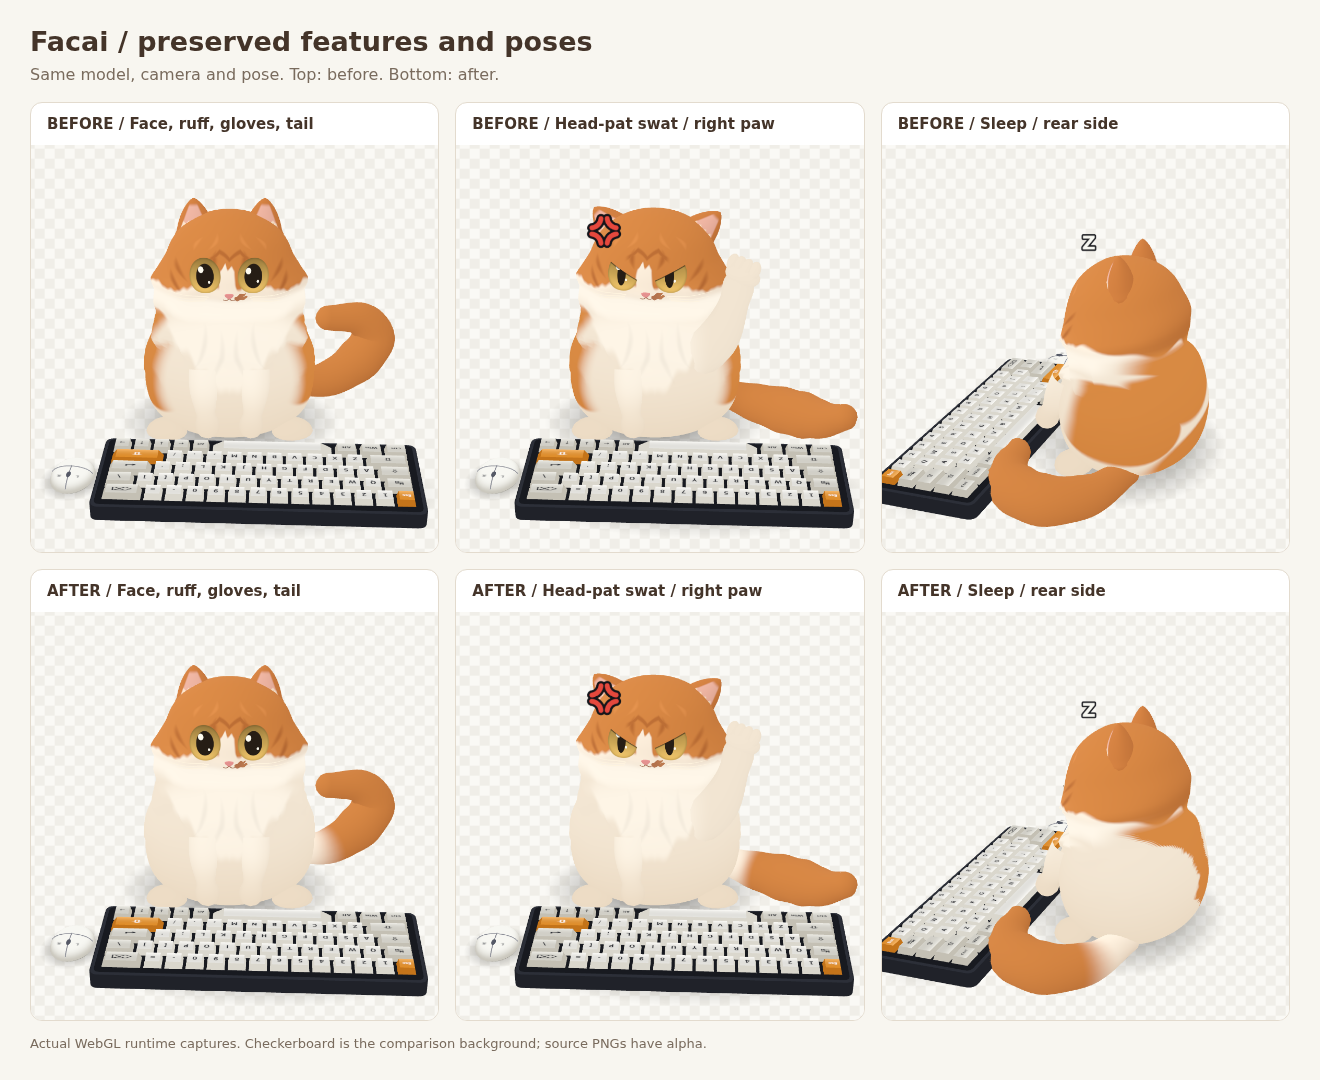
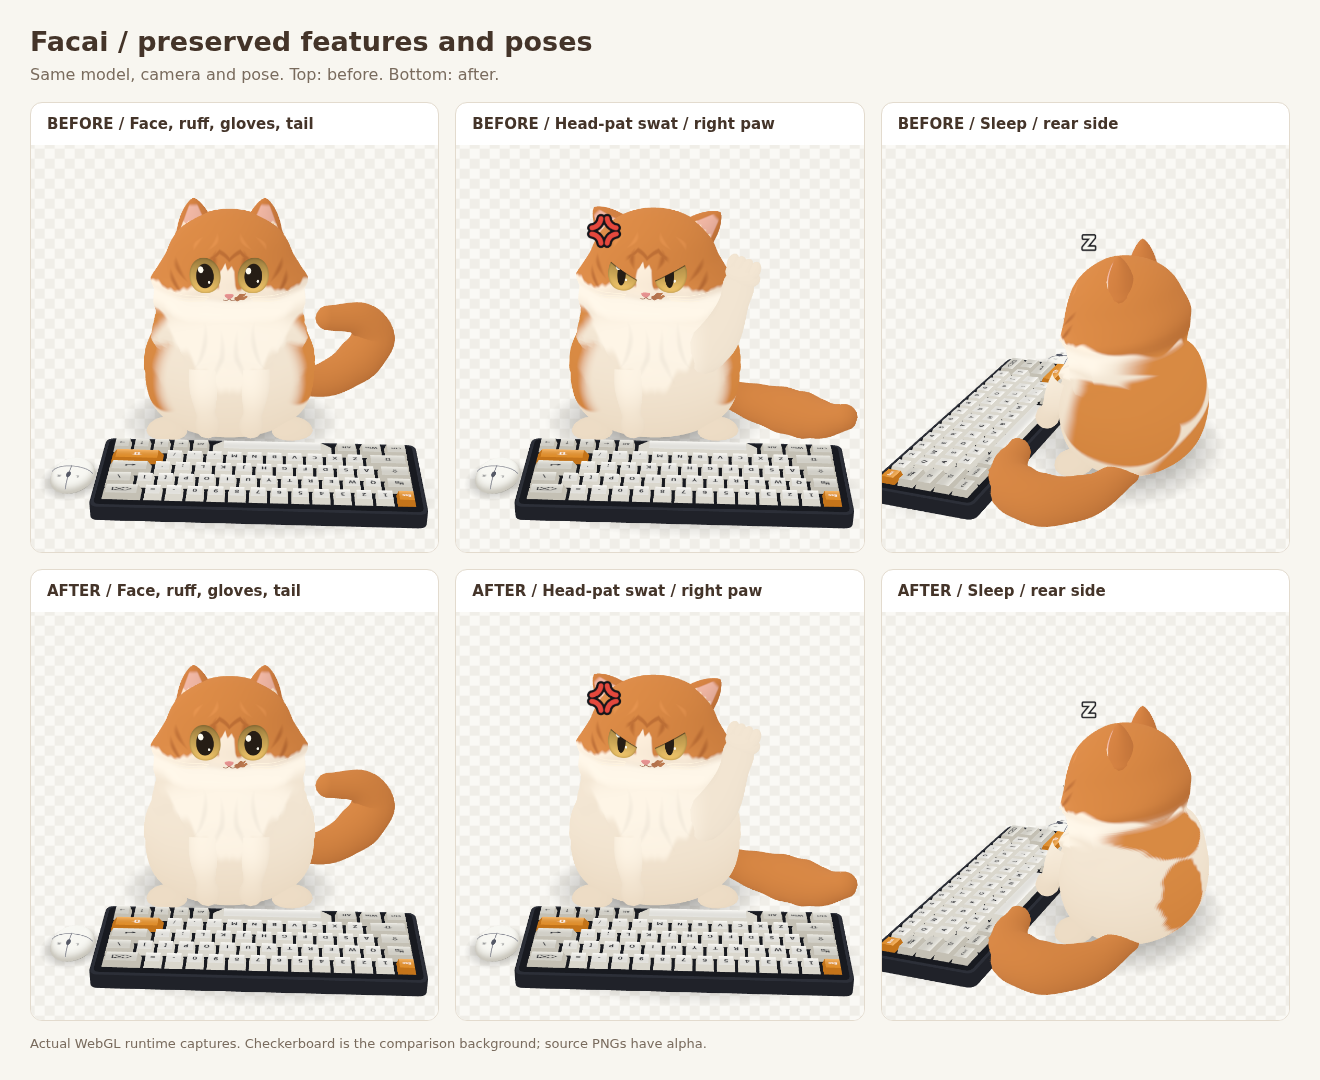
fix: match Facai's asymmetric back markings

diff --git a/src/longhair3d.ts b/src/longhair3d.ts
@@ -192,7 +192,7 @@ function makeCoatGeometry(
   return geometry;
 }
 
-function sculptMaterial(part: 'COAT' | 'EAR' | 'LIMB' | 'SOLID' | 'TAIL'): THREE.ShaderMaterial {
+function sculptMaterial(part: 'COAT' | 'EAR' | 'LIMB' | 'SOLID'): THREE.ShaderMaterial {
   return new THREE.ShaderMaterial({
     defines: { [part]: 1 },
     uniforms: {
@@ -221,10 +221,6 @@ function sculptMaterial(part: 'COAT' | 'EAR' | 'LIMB' | 'SOLID' | 'TAIL'): THREE
       #endif
       varying vec3 vLocation, vNormal, vView;
       varying vec2 vWorldXY;
-      #ifdef TAIL
-        attribute float along;
-        varying float vAlong;
-      #endif
       void main() {
         vec4 posed = vec4(position, 1.0);
         vec3 posedNormal = normal;
@@ -240,9 +236,6 @@ function sculptMaterial(part: 'COAT' | 'EAR' | 'LIMB' | 'SOLID' | 'TAIL'): THREE
           posedNormal = mix(mat3(uTorsoPose) * normal, mat3(uHeadPose) * normal, bend);
         #else
           vLocation = position;
-        #endif
-        #ifdef TAIL
-          vAlong = along;
         #endif
         vWorldXY = (modelMatrix * posed).xy;
         vNormal = normalMatrix * posedNormal;
@@ -260,9 +253,6 @@ function sculptMaterial(part: 'COAT' | 'EAR' | 'LIMB' | 'SOLID' | 'TAIL'): THREE
       #endif
       varying vec3 vLocation, vNormal, vView;
       varying vec2 vWorldXY;
-      #ifdef TAIL
-        varying float vAlong;
-      #endif
 
       float oval(vec2 p, vec2 center, vec2 size) {
         return 1.0 - smoothstep(0.89, 1.05, length((p - center) / size));
@@ -332,27 +322,25 @@ function sculptMaterial(part: 'COAT' | 'EAR' | 'LIMB' | 'SOLID' | 'TAIL'): THREE
           p = vLocation;
           color = uCream;
 
-          // Facai's white coat has broad ginger shoulders flowing into a narrow
-          // spinal patch, ending above the white rump. Work in rest coordinates
-          // so the markings stay attached during breathing, sleep and swats.
-          float spine = 0.025 + 0.026 * sin(4.7 * p.y + 0.3) + 0.012 * sin(11.0 * p.y);
-          float side = sign(p.x - spine);
-          float shoulder = smoothstep(0.18, 0.62, p.y);
-          float width = mix(0.235 + 0.030 * sin(8.0 * p.y - 0.6), 0.59, shoulder);
-          width *= smoothstep(-0.72, -0.43, p.y);
-          // Unequal locks of long fur break up both edges at several scales.
-          // Their tips lean down the back instead of forming a geometric oval.
-          float flow = p.y + 0.20 * abs(p.x - spine);
-          float locks = 0.023 * sin(19.0 * flow + side * 1.7)
-                      + 0.012 * sin(43.0 * flow - side * 0.8);
-          float patchEdge = abs(p.x - spine) - width - locks;
-          // Fine, lengthwise wisps soften the border into the surrounding white.
-          float fibers = sin(235.0 * (p.x - spine) + 17.0 * p.y + 0.8 * sin(23.0 * p.y));
-          float feather = 0.039 + 0.011 * sin(37.0 * flow + side);
-          float backPatch = (1.0 - smoothstep(-feather, feather, patchEdge + 0.018 * fibers))
-                          * smoothstep(-0.74, -0.66, p.y)
-                          * smoothstep(0.10, 0.34, -p.z);
-          color = mix(color, uFlank, backPatch);
+          // The reference has a white spine between an asymmetric shoulder patch
+          // and a rear flank patch that joins the ginger tail. Rest coordinates
+          // keep both markings attached during breathing, sleep and swats.
+          float side = sign(p.x);
+          float flow = p.y + 0.18 * abs(p.x);
+          float locks = 0.024 * sin(19.0 * flow + side * 1.7)
+                      + 0.013 * sin(43.0 * flow - side * 0.8);
+          float fibers = sin(235.0 * p.x + 17.0 * p.y + 0.8 * sin(23.0 * p.y));
+          float raggedEdge = locks * 1.5 + 0.018 * fibers;
+          vec2 shoulder = vec2(p.x - 0.27 + 0.035 * sin(7.0 * p.y), (p.y - 0.50) * 0.92);
+          float shoulderPatch = 1.0 - smoothstep(-0.10, 0.08,
+            length(shoulder / vec2(0.52, 0.32)) - 1.0 + raggedEdge);
+          vec2 rear = vec2(p.x - 0.44 + 0.04 * sin(6.0 * p.y),
+                           p.y + 0.30 - 0.45 * (p.x - 0.44));
+          float rearPatch = 1.0 - smoothstep(-0.10, 0.08,
+            length(rear / vec2(0.36, 0.48)) - 1.0 + raggedEdge);
+          float shoulderCoat = shoulderPatch * smoothstep(-0.20, 0.10, -p.z);
+          float rearCoat = rearPatch * smoothstep(0.02, 0.30, -p.z);
+          color = mix(color, uFlank, max(shoulderCoat, rearCoat) * (1.0 - vHeadMix));
 
           // The broad ivory bib ends in a few rounded, downward locks.
           float bibEdge = -0.26 + 0.84 * abs(p.x) + 0.051 * cos(p.x * 23.0);
@@ -377,8 +365,6 @@ function sculptMaterial(part: 'COAT' | 'EAR' | 'LIMB' | 'SOLID' | 'TAIL'): THREE
           color = mix(color, uGinger, inner * 0.95);
           float tuftEdge = 0.125 + 0.012 * sin(90.0 * p.x);
           color = mix(color, uRuff, inner * (1.0 - smoothstep(tuftEdge - 0.013, tuftEdge + 0.010, p.y)) * 0.83);
-        #elif defined(TAIL)
-          color = mix(uRuff, color, smoothstep(0.12, 0.28, vAlong));
         #endif
 
         // Broad studio key, warm bounce and a soft edge give the matte sculpt volume.
@@ -589,8 +575,7 @@ export class LonghairModel3D {
   public readonly head = new THREE.Group();
   public readonly ears: THREE.Group[] = [];
   public readonly hitMeshes: THREE.Mesh[];
-  public readonly tailMaterial = sculptMaterial('TAIL');
-  public readonly tailCapMaterial = sculptMaterial('SOLID');
+  public readonly tailMaterial = sculptMaterial('SOLID');
   public readonly limbMaterial = sculptMaterial('LIMB');
   public readonly swatPaw = new LonghairSwatPaw3D(this.limbMaterial);
   public readonly forelegs = [
@@ -712,8 +697,6 @@ export class LonghairModel3D {
     setCoatColors(this.earCoat, skin.earOuterColor ?? ginger, innerEar, innerEar, skin.earTuftColor ?? skin.furColor);
     setCoatColors(this.noseCoat, skin.noseColor ?? '#df8781');
     setCoatColors(this.tailMaterial, skin.tailColor ?? ginger);
-    this.tailMaterial.uniforms.uRuff.value.set(ruff);
-    setCoatColors(this.tailCapMaterial, skin.tailColor ?? ginger);
     for (const eye of this.eyes) {
       eye.uniforms.uTop.value.set(skin.eyeColorTop);
       eye.uniforms.uBottom.value.set(skin.eyeColorBottom ?? '#eec268');

diff --git a/src/catEngine3d.ts b/src/catEngine3d.ts
@@ -103,7 +103,6 @@ function createCleanLimb(
     segments: number;
     radial: number;
     fill: THREE.Material;
-    capFill?: THREE.Material;
     order?: number;
     capStart?: boolean;
     capEnd?: boolean;
@@ -118,7 +117,7 @@ function createCleanLimb(
   if (opts.capStart !== false) capTs.push(0);
   if (opts.capEnd !== false) capTs.push(1);
   for (let i = 0; i < capTs.length; i++) {
-    const cap = new THREE.Mesh(CAP_GEO, opts.capFill ?? opts.fill);
+    const cap = new THREE.Mesh(CAP_GEO, opts.fill);
     cap.renderOrder = order;
     parent.add(cap);
     caps.push(cap);
@@ -1635,7 +1634,6 @@ export class KuroCatEngine3D {
           segments: 38,
           radial: 16,
           fill: model.tailMaterial,
-          capFill: model.tailCapMaterial,
           capStart: false,
         });
         this.longhairModel = model;

diff --git a/docs/skins/orange-white-longhair/back-markings.md b/docs/skins/orange-white-longhair/back-markings.md
@@ -1,6 +1,6 @@
 # 发财背部花纹修正（DEV-157）
 
-对照本任务的背部实拍图，将发财原有的宽鞍斑、两侧橘斑和臀部橘斑，改为白底上的肩颈橘区与沿脊柱延伸的长橘斑。
+对照本任务最新的侧后实拍图，将发财原有的宽鞍斑、两侧橘斑和臀部橘斑，改为白底上的不对称肩背橘区与后侧橘区。脊柱中段保持白色，尾巴从根部起保持橘色。
 
 现有发财是实时 3D 皮肤：`src/longhair3d.ts` 生成模型和材质，DEV-156 的挥爪也是同一模型的实时动作，没有独立的逐帧 PNG 或 2D 挥爪素材。本次直接修正共用的背部材质，所有朝向、呼吸、低头、入睡和左右挥爪都使用该花纹。
 
@@ -12,14 +12,14 @@
 
 | 部位 | 原素材与实拍的差异 | 本次修正 |
 | --- | --- | --- |
-| 肩颈、上背 | 鞍斑与侧斑连成大面积橘色，缺少与白色体侧的区分 | 肩颈保留较宽橘区，向背部中线收窄 |
-| 背部中段 | 横向鞍斑过宽，未表现出沿脊柱的长斑 | 连续、略不对称的狭长橘斑，向腰臀上方收尾 |
-| 体侧、髋部、臀部 | 两侧和臀部有额外大橘斑 | 恢复白色主底，保留橘色尾巴 |
+| 肩颈、上背 | 鞍斑与侧斑连成大面积橘色，缺少与白色体侧的区分 | 肩背橘区偏向一侧，不再沿脊柱向下延伸 |
+| 背部中段 | 横向鞍斑过宽，缺少参考图中的连续白毛 | 上下两块橘斑之间保留明确的白毛间隔 |
+| 体侧、髋部、臀部 | 两侧和臀部有大面积橘色 | 仅后侧橘斑向尾根斜向延伸，另一侧和臀部保持白色 |
 | 斑块边缘 | 多个规则椭圆叠加，边界较平滑、色块感明显 | 多尺度起伏、顺毛流的细丝和柔化过渡 |
 
 ![正面特征、挥爪与入睡修改前后](back-markings-features.png)
 
-白鼻梁条、鼻旁橘斑、白毛领和白手套继续使用原有造型和配色。尾巴主体保持橘色，埋在白色身体里的根部使用白毛过渡，避免正面右侧露出橘色小块。正面截图的面部/鼻斑、白毛领和白手套取样区域由比较脚本自动验证；运行检查另会断言正面右侧身体没有橘色像素，且尾巴主体保留橘色。
+白鼻梁条、鼻旁橘斑、白毛领、白手套和全橘尾巴继续使用原有造型和配色。正面截图的面部/鼻斑、白毛领、白手套和橘尾巴取样区域由比较脚本自动验证；运行检查另会断言尾根与尾巴主体均为橘色。
 
 ## 验证与复现
 
@@ -38,8 +38,8 @@ npm run test:back-markings
 
 - 6 个固定视角、左右挥爪各 25 帧、左右挥爪正面各 1 帧、入睡过渡 30 帧和入睡侧面，共 89 张透明 PNG。
 - 每张检查 WebGL alpha、透明背景与可见的宠物像素，并捕获浏览器和 GLSL 错误。
-- 在实际背部网格上定位后读取 GPU 像素：肩部 3 点、脊柱 3 点应为橘色；左右体侧、左右髋部、臀部共 5 点应为白色。
-- 正面右侧身体取样区域的橘色像素必须为 0，尾巴主体取样区域必须保留超过 1,000 个橘色像素。
+- 在实际背部网格上定位后读取 11 个 GPU 像素：肩部中点/右侧、上背中点、右体侧和右髋应为橘色；左肩、脊柱中下段、左体侧、左髋和臀部应为白色。
+- 尾根取样区域必须有橘色像素，尾巴主体取样区域必须保留超过 1,000 个橘色像素。
 - 原有挥爪单元测试及浏览器交互检查覆盖概率、左右选爪、肉垫/爪尖、抓痕、隐私中断、选键和动作结束后的恢复。
 
 重新生成修改前截图时，Vite 只在内存中加载指定提交的原材质，不修改当前工作区：
